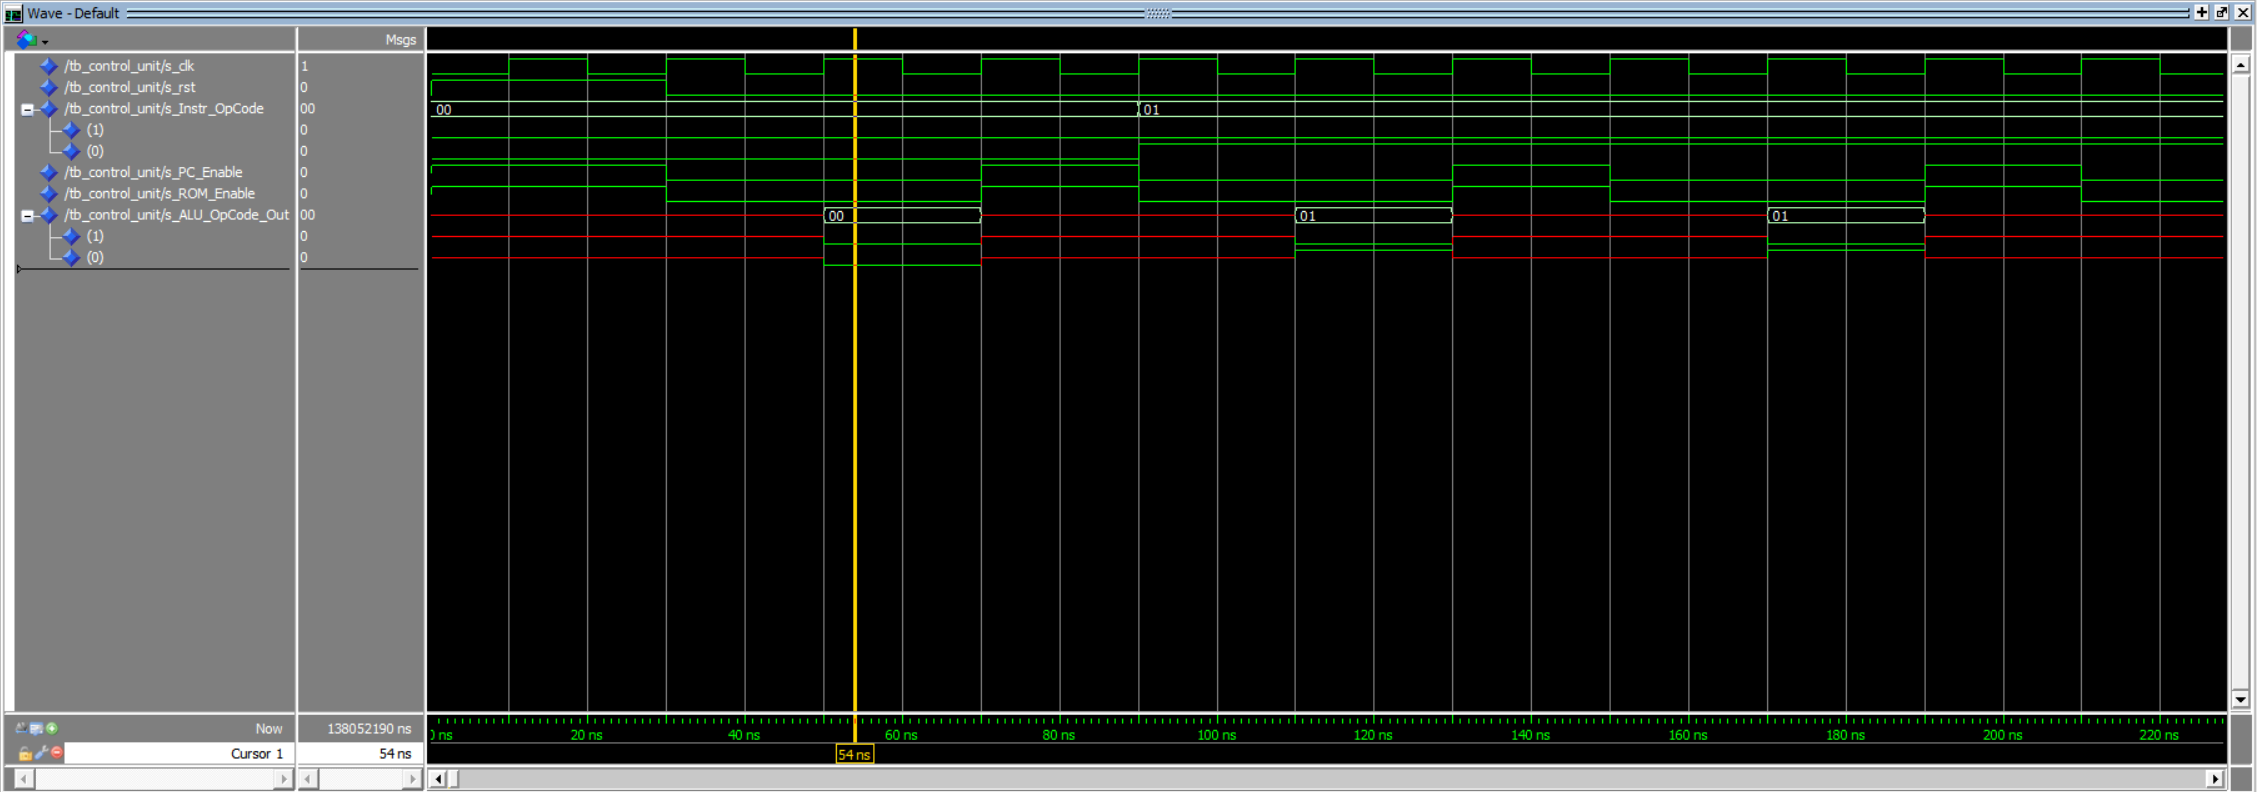
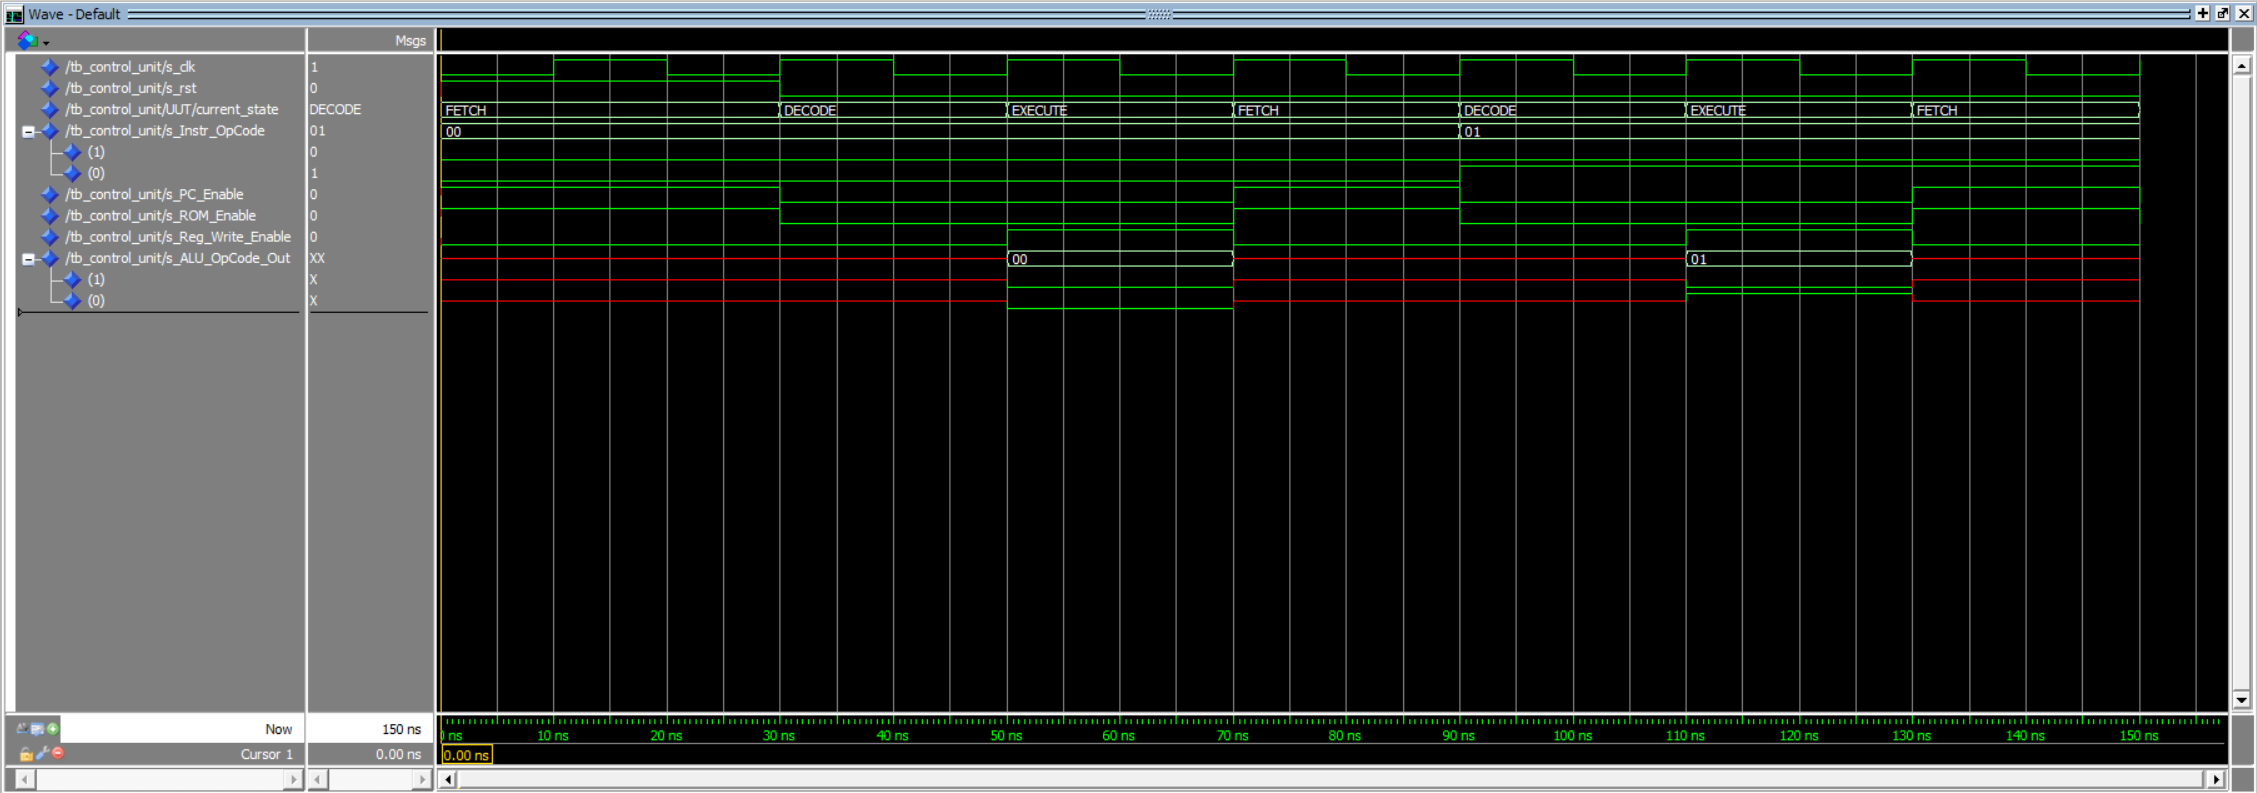
feat: Complete CPU v1.0 integration and refactor core modules (06, 07)
This commit adds the 10_CPU_Top module that integrates all core components into the final, working "v1.0" CPU.

This `cpu_top` module is a purely **structural** VHDL design. It contains no logic itself, but instead instantiates the 5 verified "organs" of the processor (PC, ROM, Control Unit, ALU, Register File) and connects them with a "nervous system" of internal signals (`w_...`).

The core of this integration is the wiring that implements the 3-stage Fetch-Decode-Execute cycle:

1.  **FETCH:** The `Control_Unit` enables the `Program_Counter` (`w_pc_enable`). The `PC` sends its address (`w_pc_address`) to the `Instruction_ROM`. The `ROM` sends the instruction (`w_rom_opcode`) back to the `Control_Unit`.

2.  **DECODE:** The `Control_Unit` (FSM) transitions to DECODE, pausing the `PC` and `ROM`. It decodes the `w_rom_opcode` and prepares the control signals for the next state.

3.  **EXECUTE:** The `Control_Unit` asserts the `ALU_OpCode_Out` (`w_alu_opcode`) and `Reg_Write_Enable` (`w_reg_write_en`) signals.
    * The `ALU` reads data from the `Register_File` (`w_reg_out_a/b`).
    * It executes the operation.
    * The result (`w_alu_result`) is sent *back* to the `Register_File`'s `Data_In` port to be written (saved) on the next clock edge.

**Supporting Changes:**
To make this integration possible, two core modules were refactored (upgraded) from their original "v1" designs:
* `06_Control_Unit`: Added `Reg_Write_Enable` output port.
[…]

Changed region(s): [[0.0, 0.0, 1.0, 1.0]]

diff --git a/README.md b/README.md
@@ -27,10 +27,11 @@ This project is built modularly. Each directory contains the VHDL source, its co
 | **04** | `FSM_Detector` | A "101" sequence detector. (Practice for FSM "controller" logic). | **✅ Completed** |
 | **05** | `ALU` | The Arithmetic Logic Unit (Datapath) of the CPU. | **✅ Completed** |
 | **06** | `Control_Unit` | The FSM "brain" that manages the Fetch-Decode-Execute cycle. | **✅ Completed** |
-| **07** | `Instruction_ROM`| The Read-Only Memory that stores the CPU's program. | **✅ Completed** |
-| **08** | `Program_Counter`| An "enabled" counter that acts as the CPU's PC. | **✅ Completed** |
-| **09** | `Register_File` | The short-term memory (registers) for the CPU. | **✅ Completed** |
-| **10** | `CPU_Top` | **(In Progress)** The final design, integrating all modules into a single CPU. | **🚧 In Progress** |
+| **07** | `Instruction_ROM`| The synchronous Read-Only Memory that stores the CPU's program. | **✅ Completed** |
+| **08** | `Program_Counter`| An "enabled" counter that acts as the CPU's Program Counter (PC). | **✅ Completed** |
+| **09** | `Register_File` | The multi-port short-term memory (registers) for the CPU. | **✅ Completed** |
+| **10** | `CPU_Top` | The final "v1.0" integration, proving the F-D-E cycle works. | **✅ Completed** |
+| **11** | `CPU_v2_Upgrade` | *(Planned)* Upgrading the CPU to support dynamic addressing and new commands. | **🕒 Planned** |
 
 ---
 
@@ -77,6 +78,30 @@ This project is built modularly. Each directory contains the VHDL source, its co
 ### 09_Register_File
 * **Purpose:** The CPU's short-term memory "workbench" (R0-R15). This module holds the data that the ALU operates on and stores the results.
 * **Key Concept:** This design demonstrates a professional **multi-port memory** architecture:
-    1.  **Synchronous Write:** Data is written *only* on the `rising_edge(clk)` *if* `Write_Enable = '1'`. This protects the integrity of the registers.
-    2.  **Asynchronous Read:** The two read ports (`Data_Out_A`, `Data_Out_B`) are combinational. They provide data *immediately* when the read addresses change, allowing the ALU to access data and compute a result in the same clock cycle.
+    1.  **Synchronous Write:** Data is written *only* on the `rising_edge(clk)` *if* `Write_Enable = '1'`.
+    2.  **Asynchronous Read:** The two read ports (`Data_Out_A`, `Data_Out_B`) are combinational, providing data *immediately* when the read addresses change.
+* **v1.0 Test Note:** For the `10_CPU_Top` integration test, the `rst` logic of this module was modified to pre-load `R1` with `5` and `R2` with `7`. This "test-hack" allowed for verification of the ALU's computation (`5+7`, `5-7`, etc.) before the CPU had a dedicated `LDI` (Load Immediate) instruction.
 * **Files:** `register_file.vhd`, `tb_register_file.vhd`, `register_file_waveform.png`
+
+### 10_CPU_Top
+* **Purpose:** The final "v1.0" design. This is the "mainboard" module that structurally integrates all other verified components (`Control_Unit`, `Program_Counter`, `Instruction_ROM`, `ALU`, `Register_File`) into a single, working processor.
+* **Key Concept:** This module is a pure **structural VHDL** design. It contains no logic, only `component` definitions, `signal` declarations (the "nervous system"), and `port map` blocks to connect all the "organs" of the CPU together.
+* **v1.0 Limitation:** This initial CPU version uses **hardwired register addressing**. The `Control_Unit` does not yet know how to tell the `Register_File` *which* registers to read/write. We "hacked" this by wiring the `Register_File` to *always* read from `R1` and `R2`, and *always* write to `R3`.
+* **Files:** `cpu_top.vhd`, `tb_cpu_top.vhd`, `cpu_top_waveform.png`
+
+---
+
+## 💡 Instruction Set Architecture (ISA) - v1.0
+
+This is the official "language" that the v1.0 CPU understands.
+
+The "v1.0" architecture uses a 2-bit `OpCode` (`1 downto 0`) provided by the `Instruction_ROM`. The register addresses are not part of the instruction and are **hardwired** in the `cpu_top` module.
+
+**All v1.0 operations are implicitly:** `R3 = R1 [Operation] R2`
+
+| OpCode (`w_rom_opcode`) | Mnemonic | Operation | Description |
+| :---: | :---: | :--- | :--- |
+| `"00"` | `ADD` | `R3 = R1 + R2` | Adds the contents of R1 and R2, stores in R3. |
+| `"01"` | `SUB` | `R3 = R1 - R2` | Subtracts R2 from R1, stores in R3. |
+| `"10"` | `AND` | `R3 = R1 and R2`| Bitwise ANDs R1 and R2, stores in R3. |
+| `"11"` | `OR` | `R3 = R1 or R2` | Bitwise ORs R1 and R2, stores in R3. |
